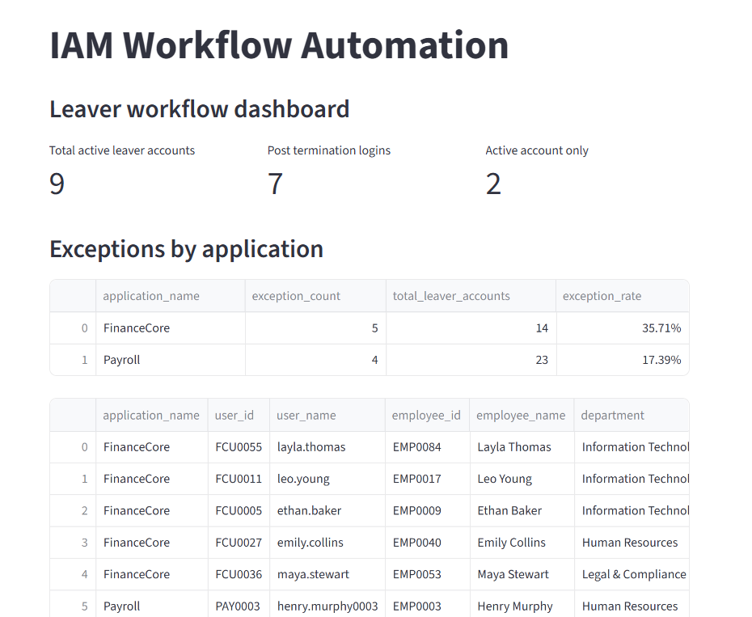
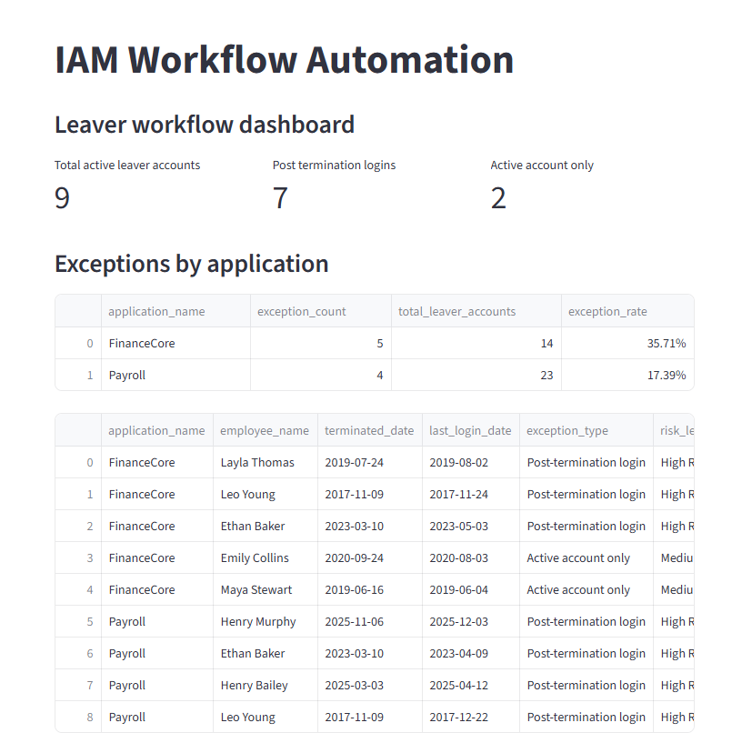
Update leaver dashboard and add manual check

diff --git a/app.py b/app.py
@@ -31,5 +31,16 @@ application_breakdown['exception_rate'] = (application_breakdown['exception_coun
 st.subheader("Exceptions by application")
 st.dataframe(application_breakdown.style.format({'exception_rate': '{:.2f}%'}))
 
-st.dataframe(exceptions) #exception details
+st.dataframe(
+    exceptions[ 
+    [ 
+        'application_name',
+        'employee_name',
+        'terminated_date',
+        'last_login_date',
+        'exception_type',
+        'risk_level'
+    ]
+]
+)
 
